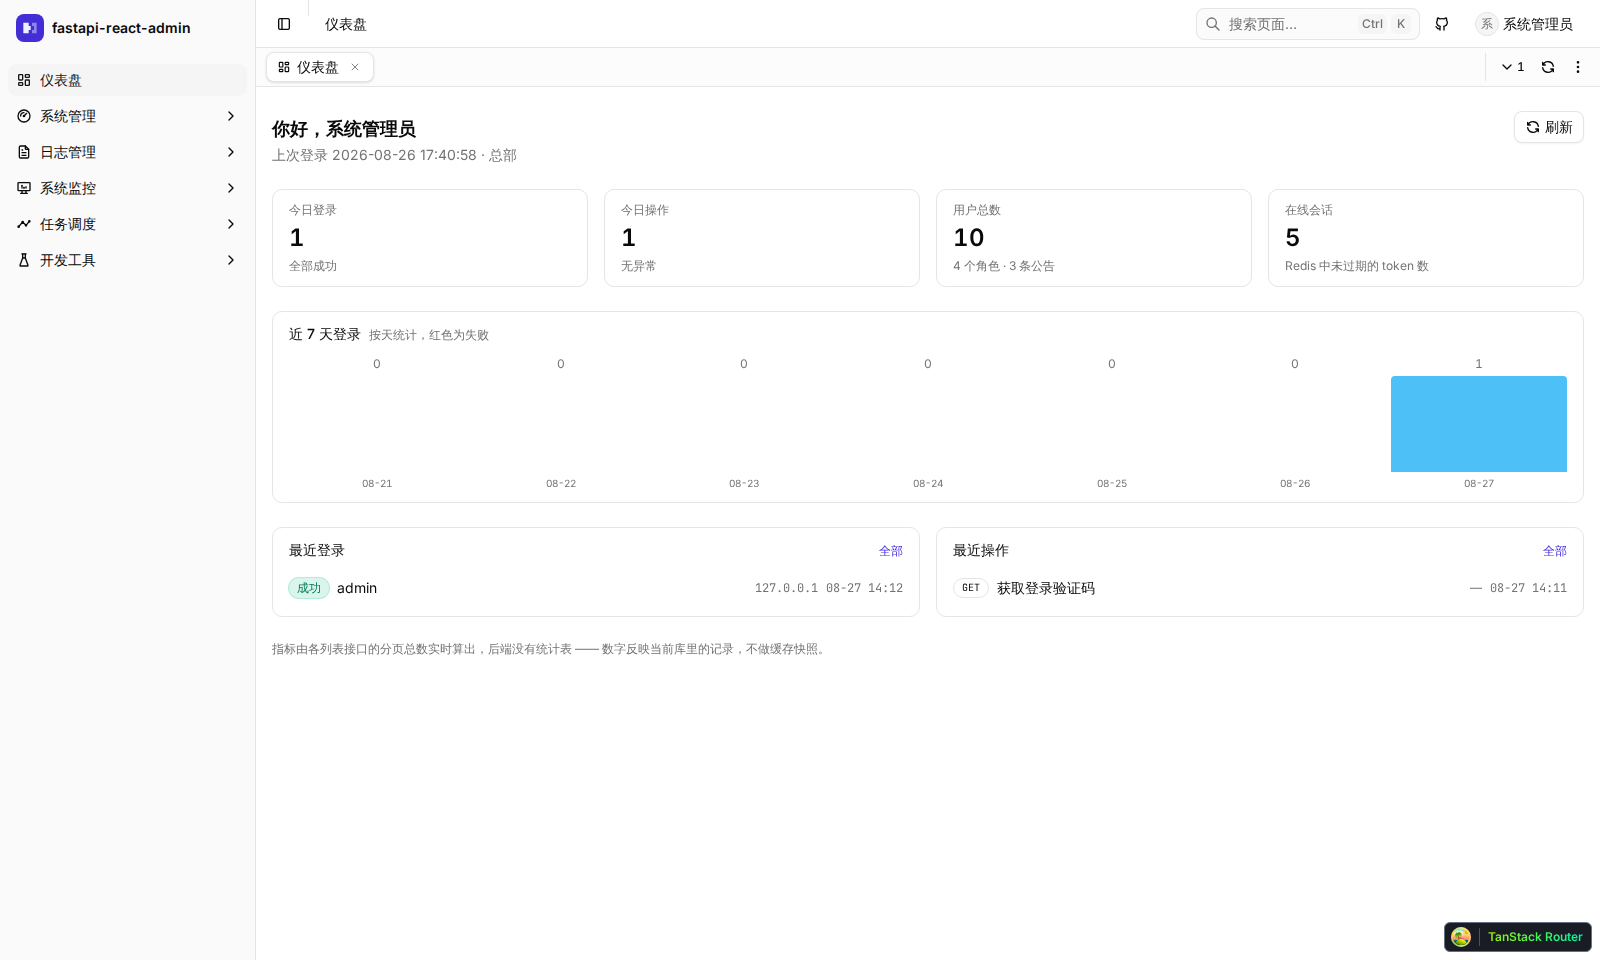
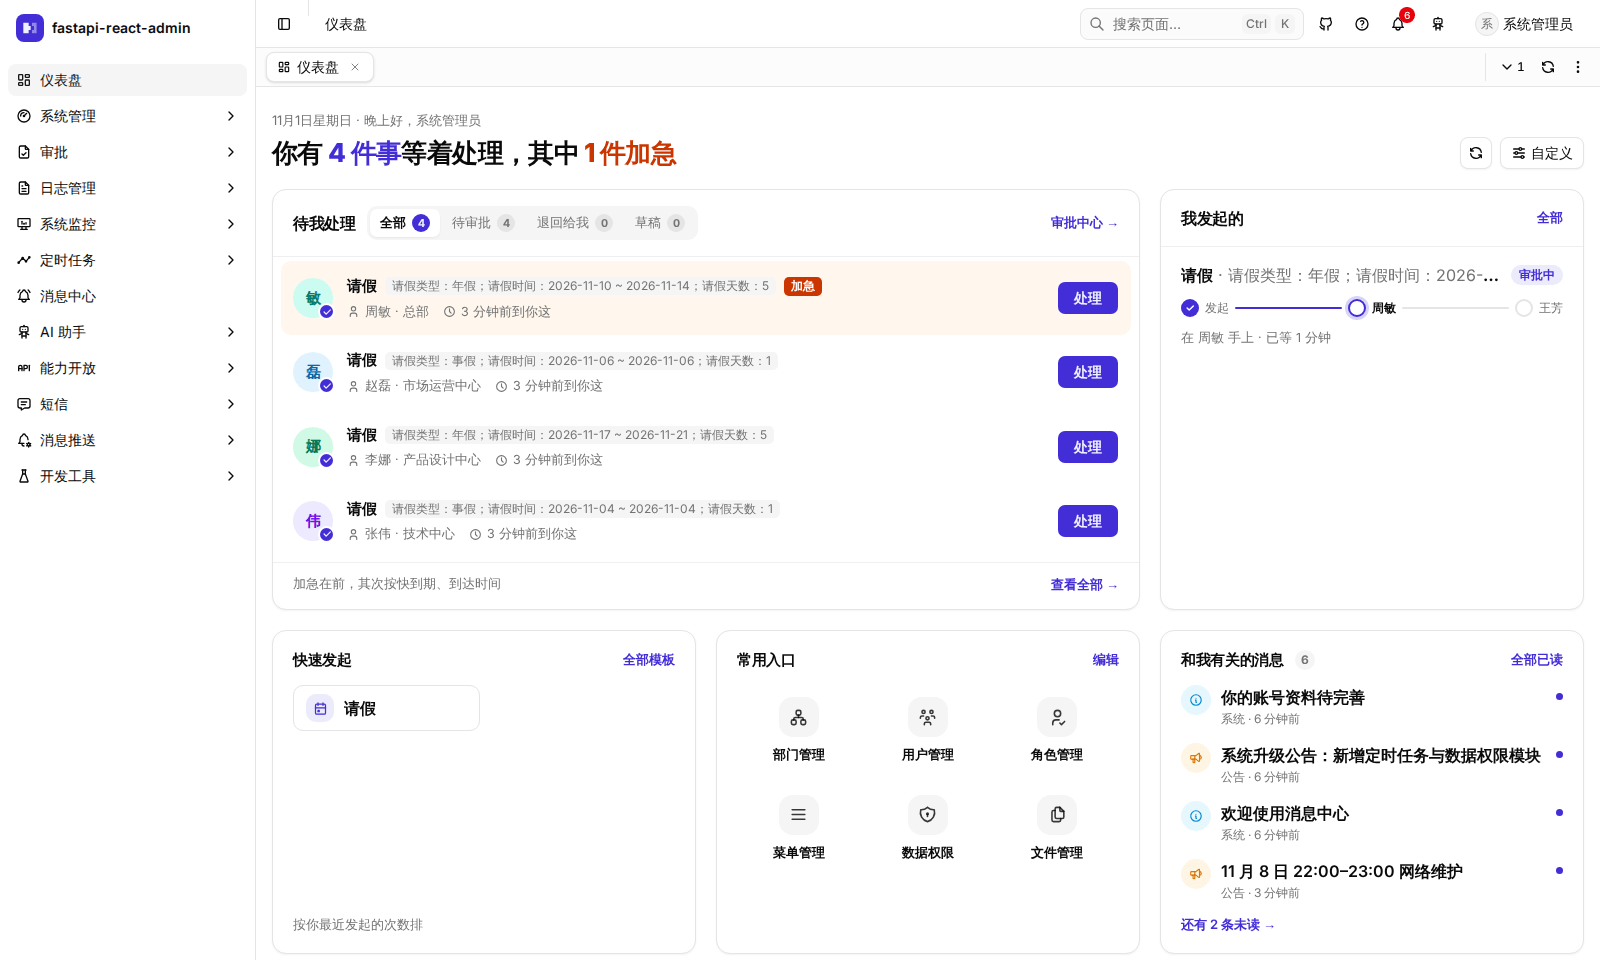
docs: 截图按最新 main 重拍 —— 新工作台 · 审批 · 权限页，新增登录页；文档站首页跟着换
原来的截图停在 08-26（仪表盘上的日期），工作台改版（#203）、登录页改版（#124）之后都对不上了。
用一套隔离的环境重拍（独立库 fba_shots + 一次性 Redis，造了请假单 / 公告 / 近 14 天登录记录），
1600×960、浅色、中文，和原来同名覆盖，README 不用改就换新：

- dashboard：以待办为中心的新工作台（4 件待办其中 1 件加急 · 我发起的 · 快速发起 · 消息）
- dept / role / data-permission：部门树、角色权限矩阵、带 AND/OR 警告的数据范围
- workflow-inbox / workflow-designer：审批详情抽屉、请假流程设计器
- 新增 sign-in：登录页的立体榫卯品牌面板

文档站首页截图区加上登录页，标题改成「最新版本的几个页面」（演示站是 #203 合并前构建的，
还是旧工作台），窗框地址栏写实际拍摄的 localhost:8888；分享卡片 og.png 跟着重新生成。
重拍的步骤和两个坑（必须开 127.0.0.1:8888 · 定位要限定在当前页签）记进 apps/docs/AGENTS.md。

diff --git a/apps/docs/AGENTS.md b/apps/docs/AGENTS.md
@@ -102,6 +102,29 @@ Starlight 0.39 起不再支持 `autogenerate` 和 `label` 写在同一层。
 - ⚠ 顶栏要写 `header.header`：Starlight 里外两层都叫 `.header`，裸写会把那道渐变线画到里层，
   实测是一截只从搜索框画到右边的线
 
+## 截图怎么重拍（`docs/screenshots/`）
+
+README、文档站首页和分享卡片（`og.png`）用的是同一批图，界面一改就该重拍 ——
+2026-11-01 发现首页截图还停在 08-26，工作台改版（#203）后已经完全对不上。
+**用一套隔离的环境拍**，别拿自己的开发库随手截：
+
+1. 在现有 PostgreSQL 里建一个单独的库（如 `fba_shots`），Redis 号全被占时起一个一次性容器；
+   所有进程用环境变量覆盖 `DATABASE_SCHEMA` / `REDIS_PORT` / `REDIS_PASSWORD`
+2. `pnpm db:init`：非交互时必须给 `FBA_INIT_ADMIN_PASSWORD`（种子里的 admin/123456 不许留下）。
+   种子里 admin 的昵称是「用户88888」，截图前只在这个库里改成「系统管理员」
+3. 起 api 时加 `REQUEST_LIMITER_ENABLED=false`：造数据要连着登录好几个账号，第 9 个就 429 了
+4. 造数据走接口（发起 / 审批请假、发公告），访问柱状图读 `sys_login_log`，直接插近 14 天的记录
+5. 1600×960、浅色、`zh-CN`；拍完跑 `pnpm --filter @admin/docs og` 更新分享卡片
+
+🔴 **浏览器要开 `http://127.0.0.1:8888`，不能开 `localhost:8888`。** 前端默认直连
+`http://127.0.0.1:8088`（`packages/platform/src/api-client/client.ts` 的 `API_BASE`），
+从 localhost 打开时那是跨站请求，刷新令牌的 cookie 浏览器根本不存 —— 登录能成功，
+**一整页跳转就回到登录页**（实测：登录后 `context.cookies()` 是空的，`/auth/refresh` 401）。
+
+🔴 **找页面里的元素要限定在当前页签里**（根 `CLAUDE.md` 硬纪律 5）：隐藏页签的 DOM 还在，
+实测 `getByText('部门及以下数据权限')` 命中的是角色页里那段说明文字，点了 30 秒点不动。
+按 `[data-tab="/_auth/…"]` 限定；另开新页签的页面（流程设计器）用 `[data-visible="true"]`。
+
 ## SEO 相关的配置在哪
 
 | 什么 | 在哪 |
